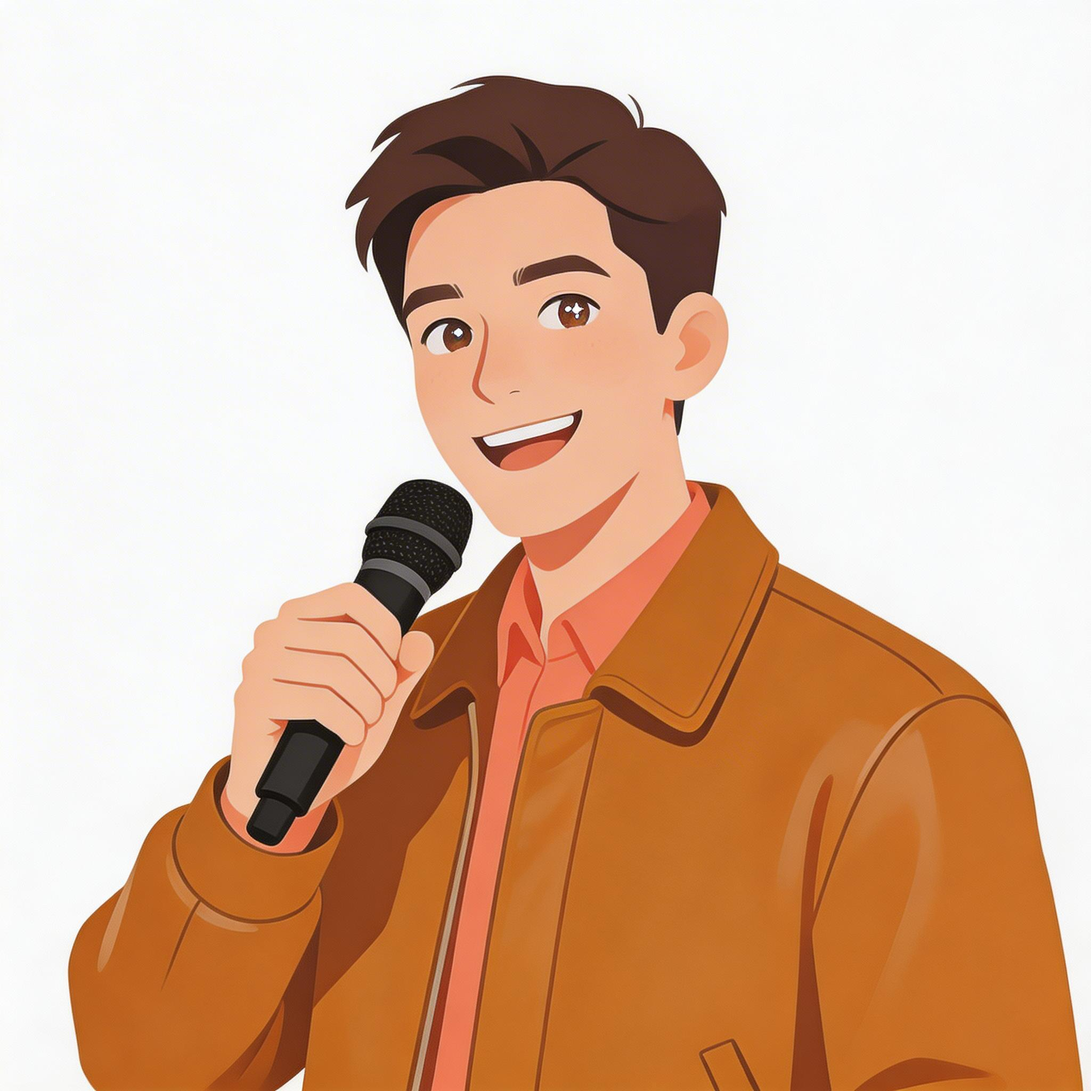
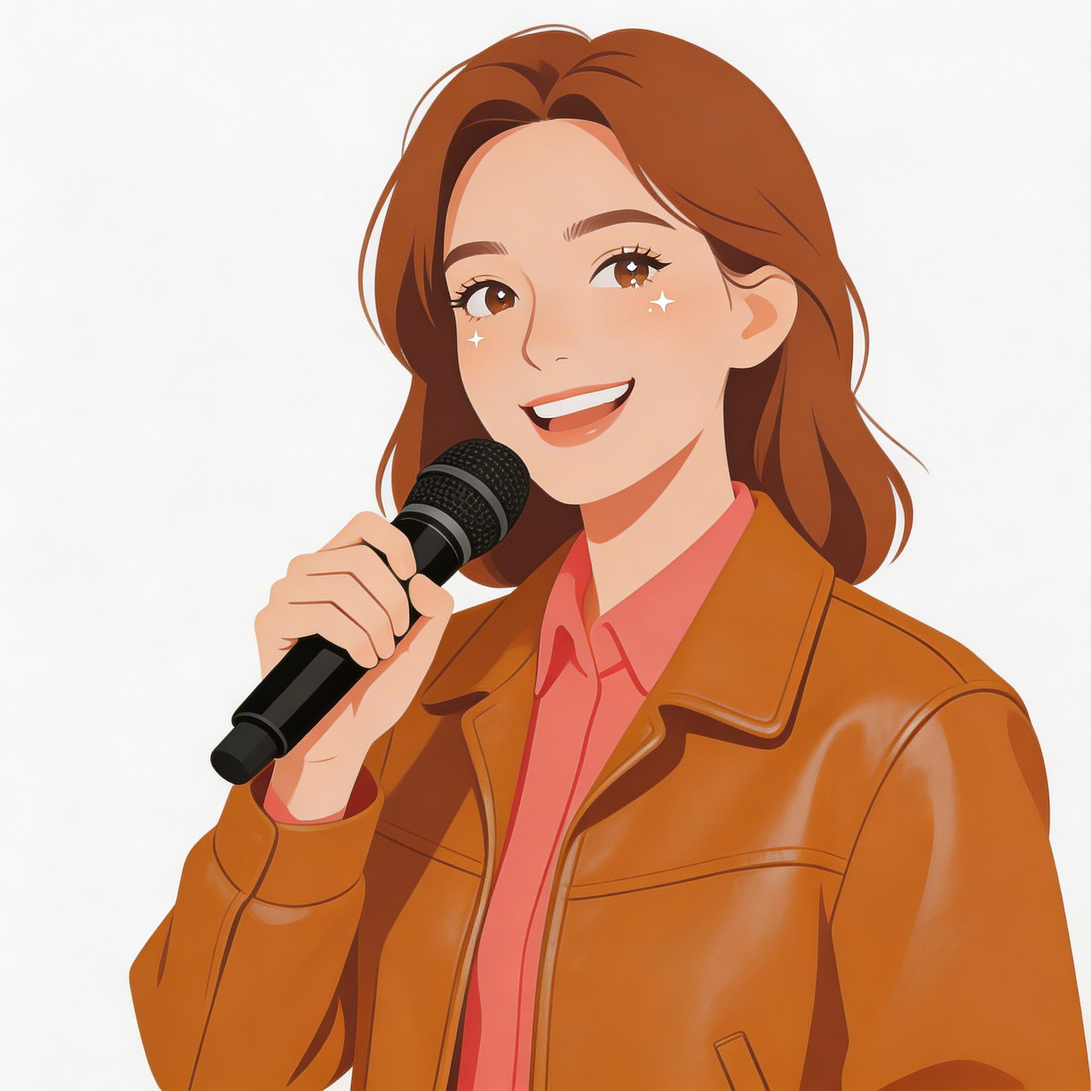
fix(images): correct gender for several MBTI portraits; add GitHub link to report template
- Replace enfp, esfp, estj, isfp, istj images with corrected gender versions
- Add GitHub and Clawhub links to sidebar and mobile hero card
- Add responsive styles for mobile GitHub link display

diff --git a/assets/report-template.html b/assets/report-template.html
@@ -22,6 +22,10 @@ $nav_links
         </nav>
       </div>
       <div class="sidebar-actions">
+        <div class="sidebar-row">
+          <a class="action-button" href="$github_url" target="_blank" rel="noreferrer">GitHub</a>
+          <a class="action-button" href="$clawhub_url" target="_blank" rel="noreferrer">Clawhub</a>
+        </div>
         <button type="button" class="action-button" data-action="download-html">$download_html</button>
         <button type="button" class="action-button" data-action="export-pdf">$export_pdf</button>
         <button type="button" class="action-button is-primary" data-action="share">$share_label</button>
@@ -34,10 +38,12 @@ $nav_links
         <span class="hero-compact-code">$type_code</span>
         <span class="hero-compact-label">$type_label</span>
       </div>
+      <a class="hero-compact-github" href="$github_url" target="_blank" rel="noreferrer" aria-label="GitHub"><svg width="18" height="18" viewBox="0 0 16 16" fill="currentColor"><path d="M8 0C3.58 0 0 3.58 0 8c0 3.54 2.29 6.53 5.47 7.59.4.07.55-.17.55-.38 0-.19-.01-.82-.01-1.49-2.01.37-2.53-.49-2.69-.94-.09-.23-.48-.94-.82-1.13-.28-.15-.68-.52-.01-.53.63-.01 1.08.58 1.23.82.72 1.21 1.87.87 2.33.66.07-.52.28-.87.51-1.07-1.78-.2-3.64-.89-3.64-3.95 0-.87.31-1.59.82-2.15-.08-.2-.36-1.02.08-2.12 0 0 .67-.21 2.2.82.64-.18 1.32-.27 2-.27.68 0 1.36.09 2 .27 1.53-1.04 2.2-.82 2.2-.82.44 1.1.16 1.92.08 2.12.51.56.82 1.27.82 2.15 0 3.07-1.87 3.75-3.65 3.95.29.25.54.73.54 1.48 0 1.07-.01 1.93-.01 2.2 0 .21.15.46.55.38A8.013 8.013 0 0016 8c0-4.42-3.58-8-8-8z"/></svg></a>
     </div>
 
     <main class="page-shell">
       <section class="hero-card">
+        <a class="hero-github-link" href="$github_url" target="_blank" rel="noreferrer" aria-label="GitHub"><svg width="20" height="20" viewBox="0 0 16 16" fill="currentColor"><path d="M8 0C3.58 0 0 3.58 0 8c0 3.54 2.29 6.53 5.47 7.59.4.07.55-.17.55-.38 0-.19-.01-.82-.01-1.49-2.01.37-2.53-.49-2.69-.94-.09-.23-.48-.94-.82-1.13-.28-.15-.68-.52-.01-.53.63-.01 1.08.58 1.23.82.72 1.21 1.87.87 2.33.66.07-.52.28-.87.51-1.07-1.78-.2-3.64-.89-3.64-3.95 0-.87.31-1.59.82-2.15-.08-.2-.36-1.02.08-2.12 0 0 .67-.21 2.2.82.64-.18 1.32-.27 2-.27.68 0 1.36.09 2 .27 1.53-1.04 2.2-.82 2.2-.82.44 1.1.16 1.92.08 2.12.51.56.82 1.27.82 2.15 0 3.07-1.87 3.75-3.65 3.95.29.25.54.73.54 1.48 0 1.07-.01 1.93-.01 2.2 0 .21.15.46.55.38A8.013 8.013 0 0016 8c0-4.42-3.58-8-8-8z"/></svg></a>
         <div class="hero-badge">$badge_svg</div>
         <div class="hero-copy">
           <p class="hero-family eyebrow">$family_label</p>

diff --git a/assets/report.css b/assets/report.css
@@ -195,6 +195,15 @@ section[id] {
   border-top: 1px solid var(--line);
 }
 
+.sidebar-row {
+  display: flex;
+  gap: 8px;
+}
+
+.sidebar-row .action-button {
+  flex: 1;
+}
+
 .action-button {
   border: 1px solid var(--line);
   border-radius: 999px;
@@ -214,6 +223,7 @@ section[id] {
 }
 
 .hero-card {
+  position: relative;
   display: grid;
   grid-template-columns: 220px 1fr;
   gap: 24px;
@@ -308,6 +318,11 @@ section[id] {
   height: 100%;
   object-fit: cover;
   border-radius: 22px;
+}
+
+.hero-github-link,
+.hero-compact-github {
+  display: none;
 }
 
 .hero-copy {
@@ -787,6 +802,67 @@ body.is-hero-compact .hero-card {
   .section-head {
     flex-direction: column;
     align-items: flex-start;
+  }
+}
+
+@media (max-width: 680px) {
+  .report-sidebar {
+    display: none;
+  }
+
+  .page-shell {
+    width: calc(100vw - 32px);
+    margin: 16px auto 48px;
+  }
+
+  .hero-badge {
+    aspect-ratio: 1;
+    height: auto;
+  }
+
+  .hero-github-link {
+    display: flex;
+    position: absolute;
+    top: 16px;
+    right: 16px;
+    width: 40px;
+    height: 40px;
+    align-items: center;
+    justify-content: center;
+    border-radius: 50%;
+    background: rgba(255, 255, 255, 0.82);
+    border: 1px solid var(--line);
+    color: var(--text);
+    text-decoration: none;
+    z-index: 2;
+  }
+
+  .hero-github-link svg {
+    width: 20px;
+    height: 20px;
+  }
+
+  .hero-compact-github {
+    display: flex;
+    margin-left: auto;
+    flex-shrink: 0;
+    width: 36px;
+    height: 36px;
+    align-items: center;
+    justify-content: center;
+    border-radius: 50%;
+    color: var(--text);
+    text-decoration: none;
+  }
+
+  .hero-compact-github svg {
+    width: 18px;
+    height: 18px;
+  }
+
+  .hero-compact-bar {
+    left: 16px !important;
+    width: calc(100vw - 32px) !important;
   }
 }
 

diff --git a/scripts/render_report.py b/scripts/render_report.py
@@ -1300,6 +1300,8 @@ def render_html(analysis: Dict, evidence_pool: Dict, quote_mode: str, asset_dir:
         download_html=report_text(locale, "download_html"),
         export_pdf=report_text(locale, "export_pdf"),
         share_label=report_text(locale, "share"),
+        github_url="https://github.com/kingOfSoySauce/mbti-skill",
+        clawhub_url="https://clawhub.ai/kingofsoysauce/mbti-analyzer",
         family_label=localize_family_label(analysis["final_type"], locale),
         type_code=analysis["final_type"],
         type_label=localize_type_label(analysis["final_type"], locale),
